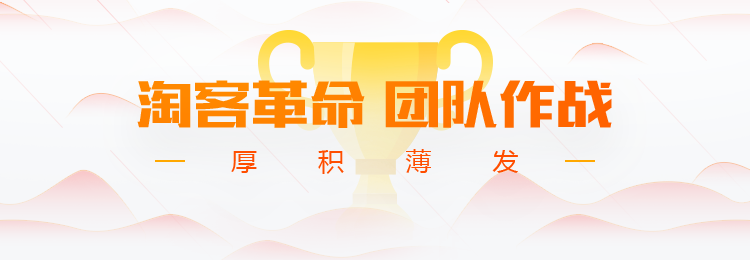
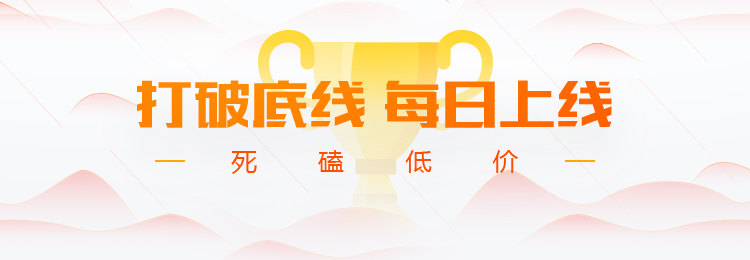
Before hiding

diff --git a/IOSrome/Resources/user/newcomer.html b/IOSrome/Resources/user/newcomer.html
@@ -1,6 +1,5 @@
 <!DOCTYPE html>
 <html lang="en">
-
 <head>
 	<title>小牛快淘</title>
 	<meta charset="UTF-8">
@@ -16,20 +15,37 @@
 		document.documentElement.style.fontSize = document.documentElement.clientWidth / 7.5 + 'px';
 	</script>
 </head>
-
 <body>
 	<!-- 布局 -->
 	<section>
 		<div class="vip01">
-			<p class="mb03">欢迎您注册成为淘宝客。小牛快淘APP致力于帮助淘宝客分享商品赚钱，您可以分享淘宝的商品、活动来赚钱，也可以在这里轻松实现购买省钱。绝大部分的淘宝卖家都加入了淘宝客，海量商品随时取！</p>
-			<hr>
-			<p class="color000">一、如何通过【分享赚】任务赚钱</p>
-			<p>1、用淘宝账号登陆，进入首页分享赚广场，选择可领取任务，点击分享赚，把它分享至各大社交平台，分享出去即可赚钱！若分享的商品有用户购买，还可以再赚佣金提成。</p>
-			<img src="imga01.png" class="img-style" alt="">
-			<p>2、用淘宝账号登陆，进入首页分享赚广场，选择可领取任务，点击分享赚，把它分享至各大社交平台，分享出去即可赚钱！若分享的商品有用户购买，还可以再赚佣金提成。</p>
-			<img src="imga01.png" class="img-style" alt="">
+			<p class="color000">一、如何加入淘宝客？</p>
+			<p style="text-indent:2em;">第一步：下载“淘宝联盟APP”，苹果/安卓均在应用商店搜索“淘宝联盟”下载。</p>
+			<p style="text-indent:2em;">第二步：下载后，登陆自己的淘宝账号，一键申请淘宝客，按照提示操作即可。</p>
+			<p style="text-indent:2em;">第三步：在淘宝联盟个人中心，设置推广位，务必如实填写推广渠道！如“导购 - 微信 - 输入自己的微信号”。</p>
+			<p style="text-indent:2em;">通过淘宝联盟APP，还可以查询个人推广报表、提现等功能，是每个淘宝客必备工具。</p>
+			<p class="color000">二、如何查询商品佣金和优惠券？生成推广链接？</p>
+			<p style="text-indent:2em;">【会员功能】</p>
+			<p style="text-indent:2em;">开通会员后可以使用一键查询商品佣金、优惠券，一键切换到后台，快速生成推广链接等功能。</p>
+			<p style="text-indent:2em;">使用方法如下图：</p>
+			<p style="text-indent:2em;">①  打开首页，输入商品链接，或搜索商品关键词，找到要查询的商品。</p>
+			<img src="newimg01.png" class="img-style" alt="">
+			<p style="text-indent:2em;">②  点击右上角的“放大镜”图标，一键查询。（顶部图标：依次是“返回主页、后退、前进、一键查询”功能按钮）</p>
+			<img src="newimg02.png" class="img-style" alt="">
+			<p style="text-indent:2em;">③  一键申请最高佣金，生成推广链接。（非会员登陆显示“??”，且无法点击）</p>
+			<img src="newimg03.png" class="img-style" alt="">
+			<p class="color000">三、如何选择产品来推广？</p>
+			<p style="text-indent:2em;">1、爆款推广型，超高优惠券，超实惠。【推荐商城】</p>
+			<p style="text-indent:2em;">坚持死磕低价，每日上新。可以根据商品分类选择，或活动主题“每日上新、1元疯抢、50%高佣”等选择。</p>
+			<p style="text-indent:2em;">2、用户定制型，精准推荐，超高成交率。【自选商城】</p>
+			<p style="text-indent:2em;">根据用户的商品需求，从自选商城的精选产品中，选择精准商品推荐，提高成交率，塑造专业买手！</p>
+			<p class="color000">四、关于淘宝客规范运营要求。</p>
+			<p style="text-indent:2em;">要求淘宝客会员及代理，务必按照<a href="http://rule.alimama.com/?spm=a2320.7388781.a214tr8.22.0gMeF7#!/announce/business/detail?id=8307063&knowledgeid=5704248"><u style="color:#1895ff;">《阿里妈妈推广者规范》</u></a>正确运营，如产生任何违规情况，导致的扣分等处罚，需自行承担。</p>
+			<p style="text-indent:2em;">另外，小牛快淘一直严禁顾客产生自推自买的行为（淘宝客的个人自推自买不受约束），并设立了仅限会员使用门槛（首月298的开通费，和168/月的续费，避免了顾客自己购买自己使用，同时保护了广大淘宝客的利益），以及邀请制注册等制度，坚决杜绝了违规使用。</p>
+			<hr style="margin:0.38rem auto;">
+			<p style="text-indent:2em;">如有其他软件使用等问题，可单独咨询您身边的会员和代理，方便一对一沟通。或关注微信公众号“小牛快淘”，会有专业人员为您解答，我们更支持您的梦想！</p>
+			<img src="newimg04.jpg" class="img-style" alt="" style="width:70%;">
 		</div>
 	</section>
 </body>
-
 </html>

diff --git a/IOSrome/Resources/user/css/newcomer.css b/IOSrome/Resources/user/css/newcomer.css
@@ -1,1 +1,1 @@
-html{height:100%;-ms-text-size-adjust:100%;-webkit-text-size-adjust:100%}body{font-family:"Helvetica Neue",Helvetica,STHeiTi,sans-serif;height:100%;margin:0;padding:0;color:#3d3d3d;font-size:.14rem;background:#f7f7f7}article,aside,details,figcaption,figure,footer,header,hgroup,main,menu,nav,section,summary{display:block}a{background-color:transparent}a:active,a:hover{outline:0}img{border:0}button,input,optgroup,select,textarea{color:inherit;font:inherit;margin:0}button{overflow:visible}button,select{text-transform:none}button,html input[type="button"],input[type="reset"],input[type="submit"]{-webkit-appearance:button;cursor:pointer}button[disabled],html input[disabled]{cursor:default}button::-moz-focus-inner,input::-moz-focus-inner{border:0;padding:0}input{line-height:normal}input[type="checkbox"],input[type="radio"]{box-sizing:border-box;padding:0}input[type="number"]::-webkit-inner-spin-button,input[type="number"]::-webkit-outer-spin-button{height:auto}input[type="search"]{-webkit-appearance:none}input[type="search"]::-webkit-search-cancel-button,input[type="search"]::-webkit-search-decoration{-webkit-appearance:none}fieldset{border:1px solid #c0c0c0;margin:0 2px;padding:.35em .625em .75em}textarea{overflow:auto}table{border-collapse:collapse;border-spacing:0}td,th{padding:0}h1,h2,h3,h4,h5,ul,li{margin:0}ul,dl,input{padding:0}ul,li{list-style:none}*,*:after,*:before{-webkit-box-sizing:border-box;box-sizing:border-box}img{vertical-align:middle;-webkit-user-select:none;user-select:none;-webkit-touch-callout:none}a,label,img{outline:0;-webkit-tap-highlight-color:rgba(0,0,0,0)}a,a:hover,a:active{color:#969696;text-decoration:none}.fl{float:left}.fr{float:right}section{padding-top:.7rem;padding-bottom:1rem}.vip01{width:94%;margin:0 auto;color:#3d3d3d;font-size:.32rem;text-align:center}.vip01 p{text-align:justify;line-height:.64rem;margin:0;word-break:break-all}.vip01 p.color000{color:#000;padding-top:.4rem;line-height:.77rem}.marginBottom{margin-bottom:1.7rem;line-height:.5rem}.btn-box{text-align:center;width:100%;margin-top:.5rem;margin-bottom:.35rem}.btn01{font-size:.38rem;width:77%;background:#fe9901;border:0;height:.8rem;line-height:.8rem;margin:0 auto;border-radius:10px;color:#fff}.font30{font-size:30px}.font26{font-size:26px}.color79{color:#797979;font-size:.28rem}.font24{font-size:24px}p.mb01{margin-bottom:.78rem}.mb03{padding-bottom:.5rem}.img-style{width:100%;height:auto;margin:.3rem auto .5rem}
+html{height:100%;-ms-text-size-adjust:100%;-webkit-text-size-adjust:100%}body{font-family:"Helvetica Neue",Helvetica,STHeiTi,sans-serif;height:100%;margin:0;padding:0;color:#3d3d3d;font-size:.14rem;background:#f7f7f7}article,aside,details,figcaption,figure,footer,header,hgroup,main,menu,nav,section,summary{display:block}a{background-color:transparent}a:active,a:hover{outline:0}img{border:0}button,input,optgroup,select,textarea{color:inherit;font:inherit;margin:0}button{overflow:visible}button,select{text-transform:none}button,html input[type="button"],input[type="reset"],input[type="submit"]{-webkit-appearance:button;cursor:pointer}button[disabled],html input[disabled]{cursor:default}button::-moz-focus-inner,input::-moz-focus-inner{border:0;padding:0}input{line-height:normal}input[type="checkbox"],input[type="radio"]{box-sizing:border-box;padding:0}input[type="number"]::-webkit-inner-spin-button,input[type="number"]::-webkit-outer-spin-button{height:auto}input[type="search"]{-webkit-appearance:none}input[type="search"]::-webkit-search-cancel-button,input[type="search"]::-webkit-search-decoration{-webkit-appearance:none}h1,h2,h3,h4,h5,ul,li{margin:0}ul,dl,input{padding:0}ul,li{list-style:none}*,*:after,*:before{-webkit-box-sizing:border-box;box-sizing:border-box}img{vertical-align:middle;-webkit-user-select:none;user-select:none;-webkit-touch-callout:none}a,label,img{outline:0;-webkit-tap-highlight-color:rgba(0,0,0,0)}a,a:hover,a:active{color:#969696;text-decoration:none}.fl{float:left}.fr{float:right}section{padding-top:0;padding-bottom:1rem}.vip01{width:94%;margin:0 auto;color:#3d3d3d;font-size:.32rem;text-align:center}.vip01 p{text-align:justify;line-height:.62rem;margin:.07rem auto;word-break:break-all}.vip01 p.color000{font-size: 0.34rem;padding-top: .15rem; font-weight: bold;}.marginBottom{margin-bottom:1.7rem;line-height:.5rem}.btn-box{text-align:center;width:100%;margin-top:.5rem;margin-bottom:.35rem}.btn01{font-size:.38rem;width:77%;background:#fe9901;border:0;height:.8rem;line-height:.8rem;margin:0 auto;border-radius:10px;color:#fff}.font30{font-size:30px}.font26{font-size:26px}.color79{color:#797979;font-size:.28rem}.font24{font-size:24px}p.mb01{margin-bottom:.78rem}.mb03{padding-bottom:.5rem}.img-style{width:80%;height:auto;margin:.3rem auto}

diff --git a/IOSrome/UserCenterViewController.swift b/IOSrome/UserCenterViewController.swift
@@ -75,6 +75,7 @@ class UserCenterViewController: UIViewController {
             }
             
             if(json?["message"] as! String != AppStatus.sharedInstance.version){
+                print(json?["message"] ?? "")
                 let alert = UIAlertController (title: "更新提示：为了更好的使用体验，请重新下载安装最新版本，下载地址请关注“小牛快淘”微信公众号，回复“最新版本”即可。", message: ""
                     , preferredStyle: UIAlertControllerStyle.alert)
                 alert.addAction(UIAlertAction(title: "Ok", style: UIAlertActionStyle.default, handler: nil))
@@ -141,6 +142,12 @@ class UserCenterViewController: UIViewController {
         alert.addAction(UIAlertAction(title: "Ok", style: UIAlertActionStyle.default, handler: nil))
         self.present(alert, animated: true, completion: nil)
     }
+    func notVipMessage(){
+        let alert = UIAlertController (title: "提示", message: "开通会员后即可查看"
+            , preferredStyle: UIAlertControllerStyle.alert)
+        alert.addAction(UIAlertAction(title: "Ok", style: UIAlertActionStyle.default, handler: nil))
+        self.present(alert, animated: true, completion: nil)
+    }
     
     @IBAction func vipButton(_ sender: UIButton) {
         if(AppStatus.sharedInstance.isLoggedIn == false){
@@ -176,6 +183,14 @@ class UserCenterViewController: UIViewController {
         self.navigationController?.pushViewController(vc, animated: true)
     }
     @IBAction func userGuideButton(_ sender: UIButton) {
+        if(AppStatus.sharedInstance.isLoggedIn == false){
+            notLoggedInMessage()
+            return
+        }
+        if(AppStatus.sharedInstance.isVip == false){
+            notVipMessage()
+            return
+        }
         let vc = (self.storyboard?.instantiateViewController(withIdentifier: "tutorial"))! as UIViewController
         self.navigationController?.pushViewController(vc, animated: true)
     }

diff --git a/IOSrome/Resources/user/vip01.html b/IOSrome/Resources/user/vip01.html
@@ -23,7 +23,7 @@
 	<section>
 		<div class="vip01">
 			<p class="color000">&emsp;&emsp;一、为什么选择做淘宝客？</p>
-			<p>&emsp;&emsp;全民淘宝时代，我们旨在培养“专业买手”式的新淘宝客，只要你用心，几乎身边、全国“每个人”的“每笔交易”，你都能赚到钱！
+			<p>&emsp;&emsp;全民淘宝时代，我们专注服务与发展“专业买手”式的新淘宝客，在未来个性化购物的大趋势下，通过专业领域的个性化、高质低价、口碑产品推荐，只要你用心，几乎身边、全国“每个人”的“每笔交易”，尤其是个性化消费，你都能赚到钱！
 			</p>
 			<p>&emsp;&emsp;1、淘宝完善的销售体系，可以让你0库存、0风险，上千万宝贝任你挑选！
 			</p>
@@ -34,7 +34,7 @@
 			<p class="color000">&emsp;&emsp;二、为什么选择小牛快淘？</p>
 			<p>&emsp;&emsp;作为“移动淘客”专业第三方服务平台，打破传统的广告刷屏模式，实现“专业买手”的核心价值，为顾客提供更精准实惠的购物体验，为淘宝客提供更长久稳定的发展方向！
 			</p>
-			<p class="mt01">&emsp;&emsp;1、站在顾客角度，我们帮会员实现了“专业买手”的角色，提供“选品商城”，人工审核数千个类目下数十万件商品：
+			<p class="mt01">&emsp;&emsp;1、站在顾客角度，我们帮会员实现了“专业买手”的角色，提供“选品商城”，人工审核数百个类目下数万件商品：
 			</p>
 			<p>&emsp;&emsp;高销量 + 高优惠券的好商品 = 高购买率！</p>
 			<p>&emsp;&emsp;高佣金 = 高收入！</p>

diff --git a/IOSrome/GeneralWebViewController.swift b/IOSrome/GeneralWebViewController.swift
@@ -1,0 +1,45 @@
+//
+//  GeneralWebViewController.swift
+//  IOSrome
+//
+//  Created by 韩建桥 on 2017/3/12.
+//  Copyright © 2017年 Lanchitour. All rights reserved.
+//
+
+import UIKit
+
+class GeneralWebViewController: UIViewController , UIWebViewDelegate{
+    
+    var targetAddress:String = ""
+
+    @IBOutlet weak var webView: UIWebView!
+    override func viewDidLoad() {
+        super.viewDidLoad()
+
+        // Do any additional setup after loading the view.
+        let url:URL = URL(string: targetAddress)!
+        let request:URLRequest = URLRequest(url: url)
+        webView.scalesPageToFit = true
+        webView.delegate = self
+        webView.isOpaque = false
+        webView.backgroundColor = UIColor.white
+        webView.loadRequest(request)
+    }
+
+    override func didReceiveMemoryWarning() {
+        super.didReceiveMemoryWarning()
+        // Dispose of any resources that can be recreated.
+    }
+    
+
+    /*
+    // MARK: - Navigation
+
+    // In a storyboard-based application, you will often want to do a little preparation before navigation
+    override func prepare(for segue: UIStoryboardSegue, sender: Any?) {
+        // Get the new view controller using segue.destinationViewController.
+        // Pass the selected object to the new view controller.
+    }
+    */
+
+}

diff --git a/IOSrome/ReportDetailViewController.swift b/IOSrome/ReportDetailViewController.swift
@@ -22,7 +22,7 @@ class ReportDetailViewController: UIViewController, UIWebViewDelegate {
         super.viewDidLoad()
         // Do any additional setup after loading the view.
         
-        self.navigationItem.title = AppStatus.sharedInstance.isVip ? "会淘一下" : "购买VIP查看数据"
+        self.navigationItem.title = AppStatus.sharedInstance.isVip ? "快淘一下" : "购买VIP查看数据"
         
         do{
             let filePath = Bundle.main.path(forResource: "lanjs_rep_det", ofType: "js")
@@ -32,7 +32,7 @@ class ReportDetailViewController: UIViewController, UIWebViewDelegate {
         }
         webView.scalesPageToFit = true
         
-        let staticHTML = "<html><head><meta http-equiv=\"Content-Language\"content=\"zh-CN\"><meta HTTP-EQUIV=\"Content-Type\" CONTENT=\"text/html;charset=UTF-8\"><title>会淘助手</title></head><body><section id=\"lanSec\">hellowor</section></body></html>"
+        let staticHTML = "<html><head><meta http-equiv=\"Content-Language\"content=\"zh-CN\"><meta HTTP-EQUIV=\"Content-Type\" CONTENT=\"text/html;charset=UTF-8\"><title>小牛快淘</title></head><body><section id=\"lanSec\">hellowor</section></body></html>"
         webView.loadHTMLString(staticHTML, baseURL: nil)
         
         webView.delegate = self

diff --git a/IOSrome/user.center/TutorialViewController.swift b/IOSrome/user.center/TutorialViewController.swift
@@ -31,22 +31,19 @@ class TutorialViewController: UIViewController, UIWebViewDelegate {
         }
     }
     
-    var id:String = ""
-    func showDetail(){
-        let vc = (self.storyboard?.instantiateViewController(withIdentifier: "detail"))! as! SelfDetailViewController
-        vc.goodID = id
+    func loadPage(address:String){
+        let vc = (self.storyboard?.instantiateViewController(withIdentifier: "generalwebview"))! as! GeneralWebViewController
+        vc.targetAddress = address
         self.navigationController?.pushViewController(vc, animated: true)
-        
     }
     
     func webView(_ webView: UIWebView, shouldStartLoadWith request: URLRequest, navigationType: UIWebViewNavigationType) -> Bool {
-        if(request.url?.absoluteString.hasPrefix("ios"))!{
-            NSLog("IOS call")
-            return false
-        }
-        print(request.url ?? "Error request url");
+//        if(request.url?.absoluteString.hasPrefix("http://rule.alimama.com/"))!{
+//            loadPage(address: (request.url?.absoluteString)!)
+//            return false
+//        }
+        print(request.url?.absoluteString)
         return true
-        
     }
     
 

diff --git a/IOSrome/Resources/user/about.html b/IOSrome/Resources/user/about.html
@@ -22,7 +22,10 @@
 	<section>
 		<div class="vip01">
 			<img src="logo01.png" class="imgStyle" alt="">
-			<p class="padding01">小牛快淘是一款移动创业平台，作为第三方资深团队，以新技术、高效运营和专业服务，专注发展移动淘宝客事业，我们更支持您的梦想！</p>
+			<p class="padding01">小牛快淘是一款移动导购平台，致力于发展和服务新型“专业买手”，以用户需求为导向，做精准型商品推荐，提升淘客价值。
+			我们以专注、死磕到底的态度，专业高效运营，在阿里妈妈平台规范的指引下，致力于推动移动淘客事业的有序发展！
+并坚决杜绝顾客自推自买行为，为此设立了两大标准（详见新手引导）。
+</p>
 			<p  class="pb01">如您有任何问题，欢迎添加微信公众号进行咨询。</p>
 			<p class="mb02">反馈邮箱</p>
 			<a href="" class="email blue">

diff --git a/IOSrome/Resources/css/detail.css b/IOSrome/Resources/css/detail.css
@@ -2,3 +2,6 @@ html{font-family:sans-serif;-ms-text-size-adjust:100%;-webkit-text-size-adjust:1
 .priceBox{width:94%; margin: 0 auto; overflow:hidden;}
 .price_d{color:#ababab;font-size:.24rem}.detail-box .price_d span{display:inline-block;float:left}.gray-bottom{width:100%;height:auto; position: absolute;bottom:0; left:0; background:#f7f7f7; overflow:hidden}.gray-bottom button{width:49.9%;line-height:1.1rem;background:#ff7c00;color:#fff;font-size:.36rem;float:right;text-align:center; border:none}.gray-bottom .btn_left{float:left;background:#f50}
 .priceBox  .copylink{width:1.2rem; height:0.4rem;vertical-align: bottom; margin-right:0.2rem;}
+.thw-detail-panel{
+    position: fixed;
+}

diff --git a/IOSrome/Resources/user/vip02.html b/IOSrome/Resources/user/vip02.html
@@ -48,7 +48,7 @@
 			<p>(如：您团队总人数满1000后，一天内，平均每人成功推广一单指定商品，那么您将得到1000*0.5= 500元现金奖励。)
 			</p>
 			<p class="mb01">目前此功能核心系统已经完成开发，正在完善细节及测试，暂不开放，预计3个月内正式实行。</p>
-			<span class="color79">所有内容解释权归会淘助手所有</span>
+			<span class="color79">所有内容解释权归小牛快淘所有</span>
 			<a href="vip03.html">
 				<div class="btn-box">
 					<button class="btn01">返回</button>

diff --git a/IOSrome/huitaoShopViewController.swift b/IOSrome/huitaoShopViewController.swift
@@ -38,7 +38,7 @@ class huitaoShopViewController: UIViewController, UIWebViewDelegate {
         super.viewDidLoad()
         // Do any additional setup after loading the view.
         
-        self.navigationItem.title = AppStatus.sharedInstance.isVip ? "会淘一下" : "购买VIP查看数据"
+        self.navigationItem.title = AppStatus.sharedInstance.isVip ? "快淘一下" : "购买VIP查看数据"
         
         do{
             let filePath = Bundle.main.path(forResource: "lanjs_s", ofType: "js")

diff --git a/IOSrome/HuitaoViewController.swift b/IOSrome/HuitaoViewController.swift
@@ -37,7 +37,7 @@ class HuitaoViewController: UIViewController, UIWebViewDelegate {
         super.viewDidLoad()
         // Do any additional setup after loading the view.
         
-        self.navigationItem.title = AppStatus.sharedInstance.isVip ? "会淘一下" : "购买VIP查看数据"
+        self.navigationItem.title = AppStatus.sharedInstance.isVip ? "快淘一下" : "购买VIP查看数据"
         
         do{
             let filePath = Bundle.main.path(forResource: "lanjs_s", ofType: "js")
